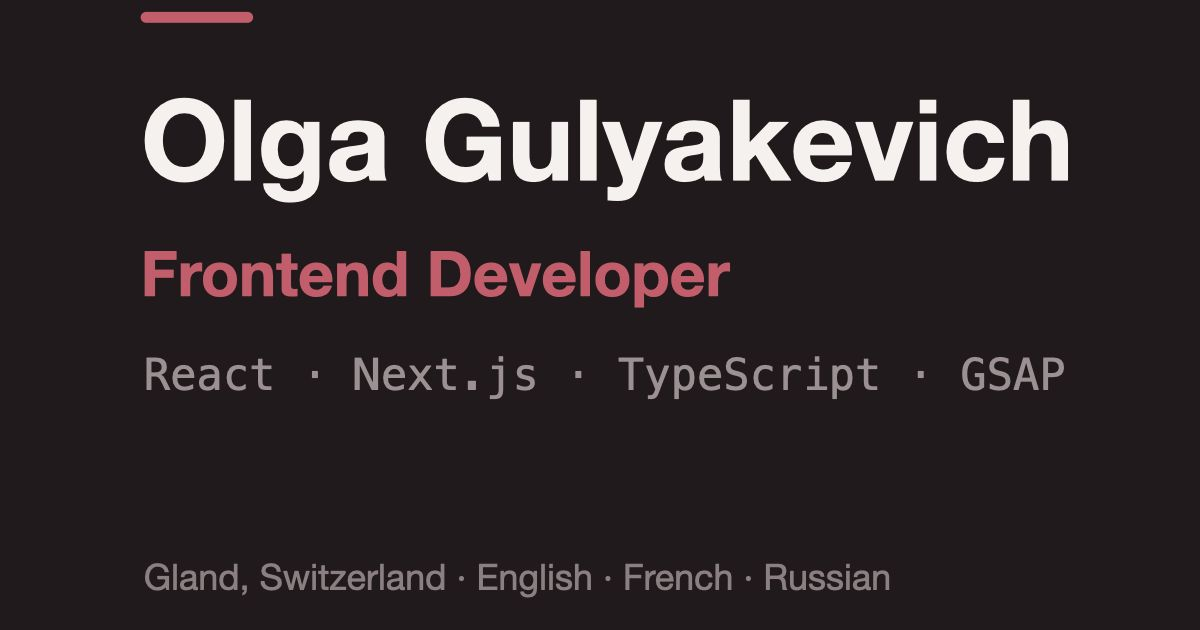
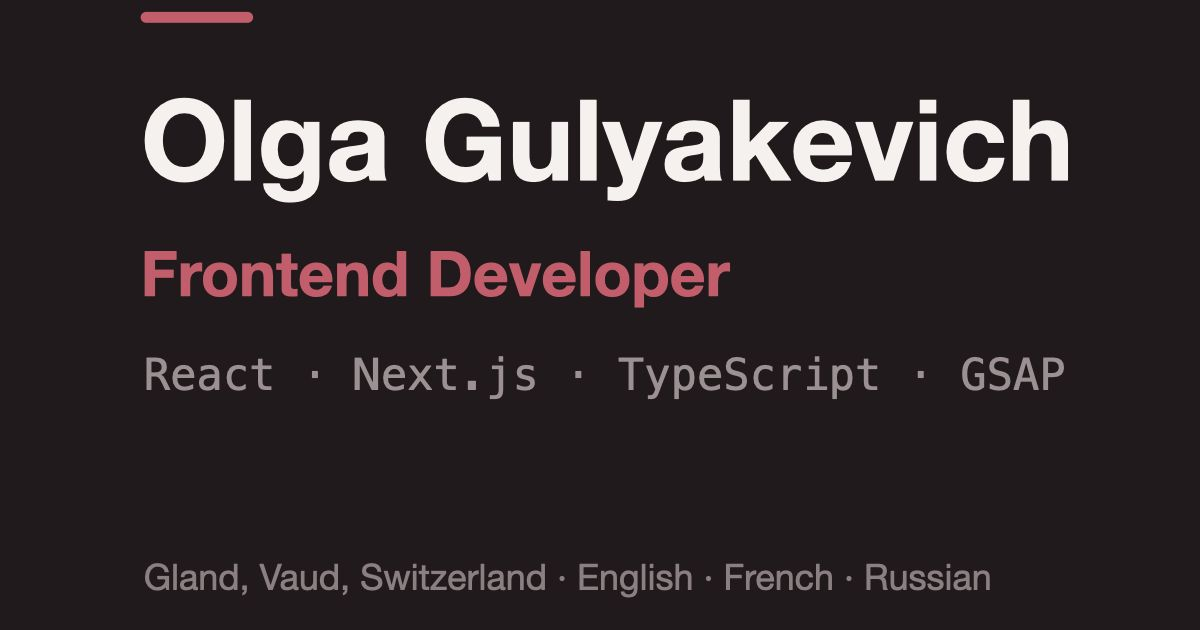
chore: add canton (Vaud) to location in hero & OG card

Changed region(s): [[0.2158, 0.8746, 0.8325, 0.9651]]

diff --git a/readme.md b/readme.md
@@ -16,7 +16,7 @@
 </p>
 
 <p align="center">
-  📍 Gland, Switzerland 🇨🇭 &nbsp;&nbsp;·&nbsp;&nbsp; English · French · Russian
+  📍 Gland, Vaud, Switzerland 🇨🇭 &nbsp;&nbsp;·&nbsp;&nbsp; English · French · Russian
 </p>
 
 ---
